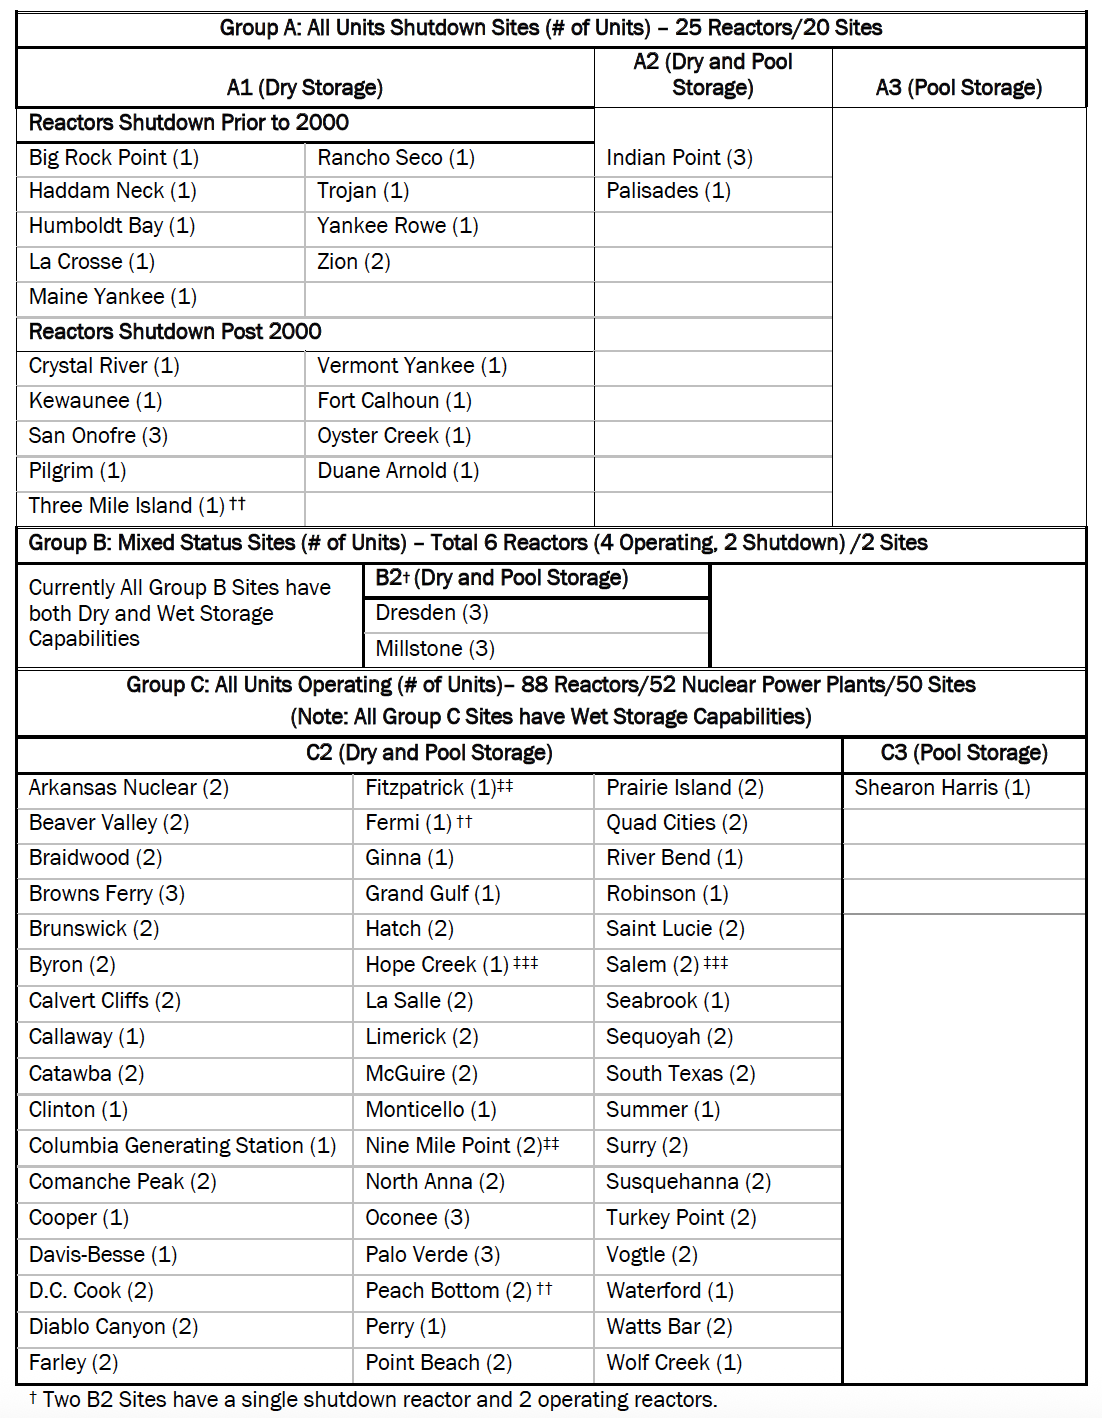
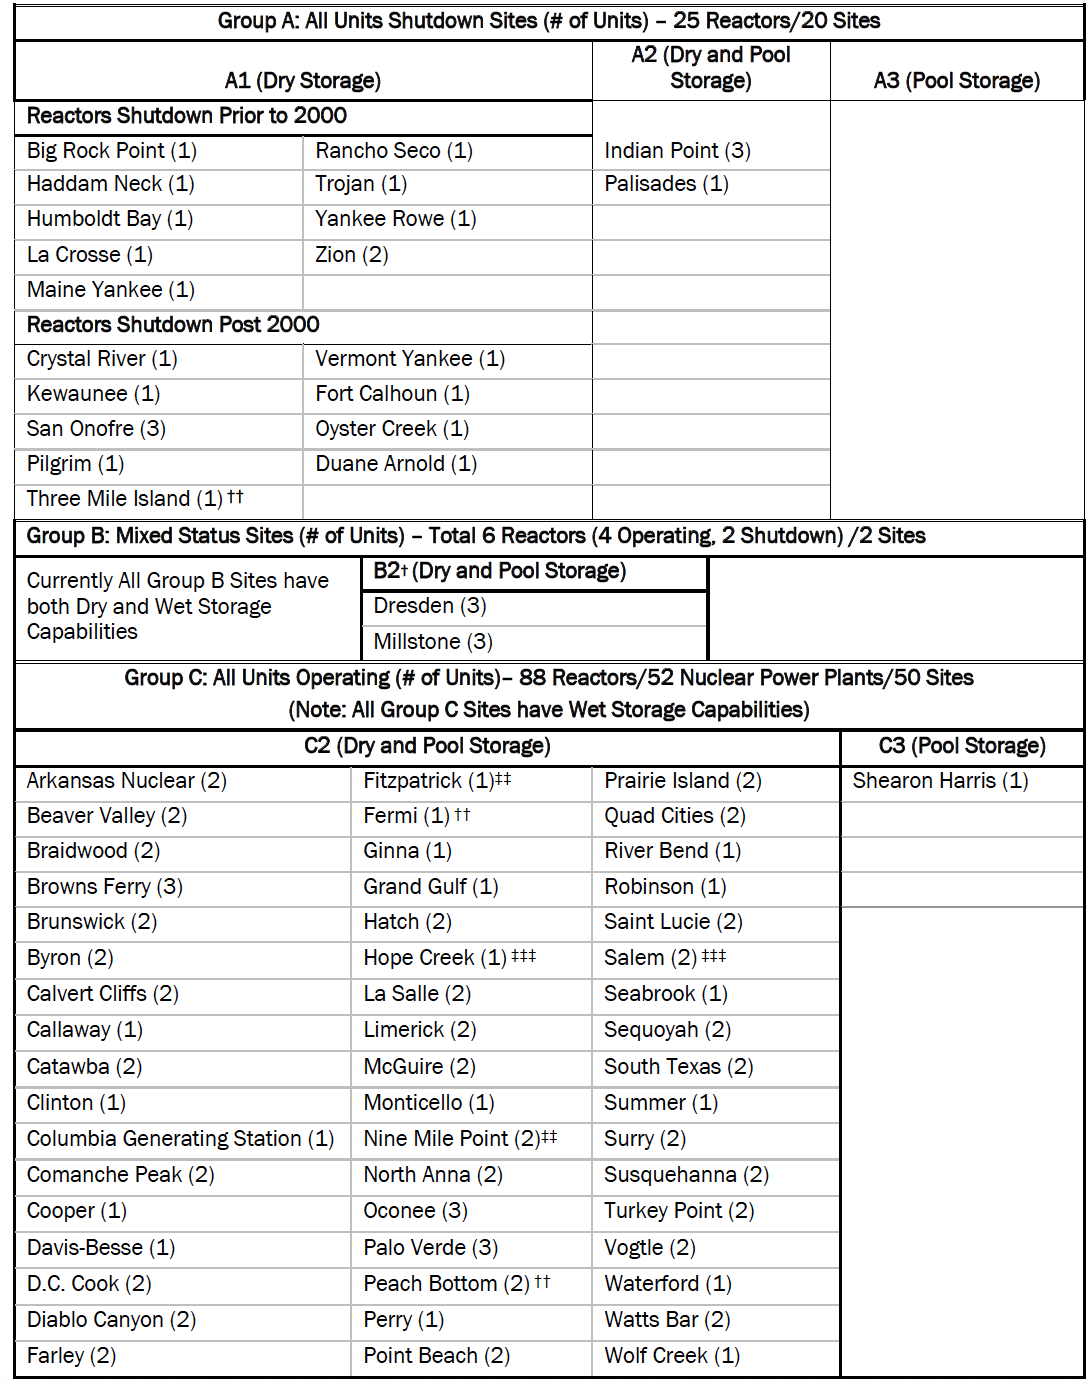
adding table notes

Changed region(s): [[0.0, 0.0, 0.9991, 1.0]]

diff --git a/main.tex b/main.tex
@@ -10,23 +10,40 @@
 
     \begin{figure}[H]
         \begin{center}
-            \includegraphics[width=1.0\textwidth]{figures/US_map.png}
+            \includegraphics[width=\textwidth]{figures/US_map.png}
         \end{center}
         \caption{Sites Storing Spent Nuclear Fuel and Reprocessing Waste at the End of 2022}
         \label{fig1}
     \end{figure}
 
-    At the end of 2022, the U.S. inventory of SNF and primary reprocessing waste was distributed across more than 100 sites in 39 states.
+    
+    \FloatBarrier
+    \begin{table}[H]
+        \centering
+        \includegraphics[width=\textwidth]{figures/intro_table.png}
+        \caption{U.S. SNF and Reprocessing Waste Inventory Summary as of December 31, 2022.}
+        \label{tab1}
+        \vspace{0.3em}
+        \footnotesize
+        \textit{Table notes:}
+        \begin{itemize}
+            \item[\textsuperscript{a}] Values are rounded to the nearest metric ton of heavy metal (MTHM).
+            \item[\textsuperscript{b}] Commercial SNF includes permanently discharged PWR and BWR fuel through December 31, 2022, excluding fuel reprocessed at West Valley, removed from Three Mile Island Unit~2, or discharged from the Fort St.~Vrain reactor.
+            \item[\textsuperscript{c}] DOE SNF includes fuel from DOE research and production reactors, naval reactors, and the Fort St.~Vrain gas-cooled reactor.
+            \item[\textsuperscript{d}] Other sites include university research reactors, government research reactors, and commercial R\&D facilities.
+            \item[\textsuperscript{e}] Site counts exclude DOE-owned ISFSIs but include the Morris away-from-reactor pool; co-located plants are counted as single sites.
+            \item[\textsuperscript{f}] Excludes critical facilities and very-low-power AGN-201 university reactors that are not expected to generate discharged fuel.
+            \item[\textsuperscript{g}] Includes three DOE reprocessing waste sites and one commercial HLW storage site.
+            \item[\textsuperscript{h}] Includes only vitrified waste canisters produced through December 31, 2022.
+            \item[\textsuperscript{i}] Includes all West Valley vitrified HLW canisters, including melter-drain and end-of-process canisters.
+        \end{itemize}
+        \normalsize
+    \end{table}
+    
+    As summarized in Table~\ref{tab1}, at the end of 2022, the U.S. inventory of SNF and primary reprocessing waste was distributed across more than 100 sites in 39 states.
     These include 73 commercial nuclear power reactor and Independent Spent Fuel Storage Installation (ISFSI) sites, 6 DOE facilities with SNF or research reactors,
     and 28 research and development (R\&D) sites encompassing universities, government laboratories, and commercial research centers.
-    Four major locations manage high level waste (HLW) and vitrified reprocessing waste, including 3 DOE facilities and one commercial site at West Valley, NY.
-    \begin{table}[H]
-        \begin{center}
-            \includegraphics[width=1.0\textwidth]{figures/intro_table.png}
-        \end{center}
-        \caption{U.S. SNF and Reprocessing Waste Inventory Summary as of December 31, 2022}
-        \label{tab1}
-    \end{table}
+    Four major locations manage high level waste (HLW) and vitrified reprocessing waste, including 3 DOE facilities and one commercial site at West Valley, NY.\\
 
     Commercial SNF inventories include permanently discharged PWR and BWR assemblies reported through 2022. Quantities exclude reprocessed fuel from the West Valley and Fort St. Vrain reactors.
     DOE totals include SNF from research, naval, and production programs.
@@ -54,17 +71,7 @@
     A numeric suffix is used to indicate whether SNF storage at the site is entirely dry (1), a mixture of wet and dry storage (2),
     or entirely wet (3). For example, Yankee Rowe is classified as Group A1 because all SNF at the site is stored in dry casks,
     while Surry is classified as Group C2 because it contains both pool and dry storage systems. Diablo Canyon Units 1 and 2 are
-    currently classified under Group C but are expected to transition to shutdown status before 2030.
-
-
-
-    \begin{table}[H]
-        \begin{center}
-            \includegraphics[width=1.0\textwidth]{figures/sec2.1_table.png}
-        \end{center}
-        \caption{Spent Nuclear Fuel Inventory by Reactor Group/Subgroup (As of 12/31/2022)}
-        \label{tab2}
-    \end{table}
+    currently classified under Group C but are expected to transition to shutdown status before 2030.\\
 
     Table~\ref{tab2} summarizes the distribution of commercial SNF by reactor category, illustrating the growth of Group A sites as more
     reactors retire. This grouping framework underpins the spatial and temporal distribution of discharged fuel and the corresponding
@@ -83,8 +90,26 @@
     fuel pools, reflecting both aging reactor infrastructure and the expansion of dry storage systems across the fleet.
 
     \begin{table}[H]
+    \centering
+    \includegraphics[width=\textwidth]{figures/sec2.1_table.png}
+    \caption{Spent Nuclear Fuel Inventory by Reactor Group/Subgroup (As of December 31, 2022)}
+    \label{tab2}
+    \vspace{0.3em}
+    \footnotesize
+    \textit{Table notes:}
+    \begin{itemize}
+        \item[\textsuperscript{\textdagger}] Two B2 sites include one shutdown reactor and two operating reactors.
+        \item[\textsuperscript{\textdagger\textdagger}] Excludes prototype, experimental, and disabled reactors (Fermi-1, Peach Bottom-1, and Three Mile Island Unit~2).
+        \item[\textsuperscript{\textdaggerdbl\textdaggerdbl}] Nine Mile Point and James A.~FitzPatrick are treated as a single site due to proximity and shared site boundaries.
+        \item[\textsuperscript{\textdaggerdbl\textdaggerdbl\textdaggerdbl}] Hope Creek and Salem are treated as a single site due to proximity and a shared ISFSI.
+    \end{itemize}
+    \normalsize
+    \end{table}
+
+
+    \begin{table}[H]
         \begin{center}
-            \includegraphics[width=1.0\textwidth]{figures/sec2.2_tab.png}
+            \includegraphics[width=\textwidth]{figures/sec2.2_tab.png}
         \end{center}
         \caption{Current Inventory at NPR sites by Storage Method as of December 2022}
         \label{tab3}
@@ -96,7 +121,7 @@
 
     \begin{figure}[H]
         \begin{center}
-            \includegraphics[width=1.0\textwidth]{figures/fig2.1.png}
+            \includegraphics[width=\textwidth]{figures/fig2.1.png}
         \end{center}
         \caption{Nuclear Power Reactor and ISFSI Sites (non-DOE) Currently Storing SNF}
         \label{fig2}
@@ -106,54 +131,41 @@
 
     \begin{figure}[H]
         \begin{center}
-            \includegraphics[width=1.0\textwidth]{figures/fig2.11.png}
+            \includegraphics[width=\textwidth]{figures/fig2.11.png}
         \end{center}
         \caption{Dry SNF Storage Casks Loaded at Nuclear Power Reactor Sites}
         \label{fig3}
     \end{figure}
 
-    Figure~\ref{fig3} illustrates the cumulative number of dry storage casks loaded across the commercial reactor fleet.
-    The increasing trend reflects both ongoing reactor operations and the migration of older assemblies from pools to dry storage.
+    The cumulative number of dry storage casks loaded across the commercial reactor fleet is illustrated in Figure~\ref{fig3},
+    the increasing trend reflects both ongoing reactor operations and the migration of older assemblies from pools to dry storage.
     The widespread use of dry casks underscores the importance of long-term interim storage in national waste management planning.\\
 
     GC-859 data also provide insights into fuel characteristics at discharge. Over time, average burnup has increased from
     early values below 20~GWd/MT in the 1970s to approximately 50 GWd/MT today. Correspondingly, initial enrichment has
     risen from about 2\% U-235 in early fuel designs to nearly 4.5\% in modern PWR and BWR assemblies. These changes reflect
     improvements in core design, regulatory allowances, and utility strategies aimed at extending fuel cycle lengths and
-    improving economic performance.
+    improving economic performance.\\
 
-    \begin{figure}[H]
-        \begin{center}
-            \includegraphics[width=1.0\textwidth]{figures/assemblies.png}
-        \end{center}
-        \caption{Burn-up (GWd/MTHM) \& Initial Enrichment (\% U-235) by Number of Assemblies of SNF Through December 2022}
-        \label{fig4}
-    \end{figure}
-
-    Figure~\ref{fig4} presents the distribution of burnup and enrichment for discharged assemblies, demonstrating a clear shift toward
+    The distribution of burnup and enrichment for discharged assemblies is represented in Figure~\ref{fig4}, demonstrating a clear shift toward
     higher burnup fuel across the fleet. This trend influences isotopic composition at discharge, particularly increasing
-    plutonium and minor actinide production.
-
-    \begin{figure}[H]
-        \begin{center}
-            \includegraphics[width=1.0\textwidth]{figures/burnup_enrichment.png}
-        \end{center}
-        \caption{Average Annual Burn up (GWd/MT) and Enrichment (U-235\%)}
-        \label{fig5}
-    \end{figure}
+    plutonium and minor actinide production.\\
 
     Figure~\ref{fig5} shows the annual average enrichment and burnup of U.S. reactor discharges from
     1968 to 2022. The steady upward trend in both parameters reflects technical and regulatory evolution in fuel management,
     including the adoption of higher enriched fuel and increased cycle lengths.\\
 
-    Representative burnup cases, drawn from the UFDC Inventory Report, provide insight into decay heat behavior.
-    These cases include PWR fuel discharged at 40 and 60~GWd/MT and BWR fuel discharged at 30 and 50~GWd/MT, typical
-    values bounding the burnup range of modern LWR fuel. These representative isotopic compositions are commonly used in fuel
-    cycle modeling tools such as Cyclus, ORIGEN, and UNF-ST\&DARDS.
+    \begin{figure}[H]
+        \begin{center}
+            \includegraphics[width=\textwidth]{figures/assemblies.png}
+        \end{center}
+        \caption{Burn-up (GWd/MTHM) \& Initial Enrichment (\% U-235) by Number of Assemblies of SNF Through December 2022}
+        \label{fig4}
+    \end{figure}
 
     \begin{table}[H]
         \begin{center}
-            \includegraphics[width=1.0\textwidth]{figures/pwr_table.png}
+            \includegraphics[width=\textwidth]{figures/pwr_table.png}
         \end{center}
         \caption{PWR 60 GWd/MT Spent Nuclear Fuel Decay Heat}
         \label{tab4}
@@ -161,11 +173,25 @@
 
     \begin{figure}[H]
         \begin{center}
-            \includegraphics[width=1.0\textwidth]{figures/pwr_plot.png}
+            \includegraphics[width=\textwidth]{figures/burnup_enrichment.png}
+        \end{center}
+        \caption{Average Annual Burn up (GWd/MT) and Enrichment (U-235\%)}
+        \label{fig5}
+    \end{figure}
+
+
+    \begin{figure}[H]
+        \begin{center}
+            \includegraphics[width=\textwidth]{figures/pwr_plot.png}
         \end{center}
         \caption{PWR 60 GWd/MT Spent Nuclear Fuel Decay Heat}
         \label{fig6}
     \end{figure}
+
+    Representative burnup cases, drawn from the UFDC Inventory Report, provide insight into decay heat behavior.
+    These cases include PWR fuel discharged at 40 and 60~GWd/MT and BWR fuel discharged at 30 and 50~GWd/MT, typical
+    values bounding the burnup range of modern LWR fuel. These representative isotopic compositions are commonly used in fuel
+    cycle modeling tools such as Cyclus, ORIGEN, and UNF-ST\&DARDS.\\
 
     As seen in Table~\ref{tab4} and Figure~\ref{fig6} the decay heat profile for PWR fuel discharged at 60~GWd/MT. At early cooling times, decay heat is
     dominated by fission products such as Cs-137 and Sr-90. At longer cooling times, actinides, particularly Pu-238, Pu-241,
@@ -174,24 +200,24 @@
 
     \begin{table}[H]
         \begin{center}
-            \includegraphics[width=1.0\textwidth]{figures/bwr_table.png}
+            \includegraphics[width=\textwidth]{figures/bwr_table.png}
         \end{center}
         \caption{BWR 50 GWd/MT Spent Nuclear Fuel Decay Heat}
         \label{tab5}
     \end{table}
 
-    \begin{figure}[H]
-        \begin{center}
-            \includegraphics[width=1.0\textwidth]{figures/bwr_plot.png}
-        \end{center}
-        \caption{BWR 50 GWd/MT Spent Nuclear Fuel Decay Heat}
-        \label{fig7}
-    \end{figure}
-
     Table~\ref{tab5} and Figure~\ref{fig7} present corresponding decay heat characteristics for BWR fuel discharged at 50~GWd/MT. Similar to the PWR case,
     short term heat generation is controlled by fission products, while long term heat output is driven by actinides.
     These representative datasets are essential for evaluating engineered storage systems and for bounding performance
     assessments in fuel cycle simulations.\\
+
+    \begin{figure}[H]
+        \begin{center}
+            \includegraphics[width=\textwidth]{figures/bwr_plot.png}
+        \end{center}
+        \caption{BWR 50 GWd/MT Spent Nuclear Fuel Decay Heat}
+        \label{fig7}
+    \end{figure}
 
     While commercial reactors generate the vast majority of SNF in the United States, the DOE manages a separate and highly diverse
     inventory originating from research, defense, and demonstration reactors, which is discussed in the following section.
@@ -237,10 +263,15 @@
 
     \begin{table}[H]
         \begin{center}
-            \includegraphics[width=0.9\textwidth]{figures/doe_projection.png}
+            \includegraphics[width=\textwidth]{figures/doe_projection.png}
         \end{center}
         \caption{Projected decay heat distribution of DOE spent nuclear fuel canisters for the year 2030}
         \label{tab6}
+        \vspace{0.3em}
+        \footnotesize
+        \textit{Table note:}
+        \textsuperscript{11} Canister counts are derived from an SFD loading algorithm and have been rounded up to whole canisters. They provide a relative comparison across decay-heat ranges and do not represent actual as-loaded canisters. Totals may therefore differ from the SFD database, and cumulative percentages are based on the algorithm results.
+        \normalsize
     \end{table}
 
     In 1995, DOE made the strategic decision to consolidate SNF storage at three primary sites: the Hanford Site in Washington,
@@ -251,29 +282,40 @@
     established standard disposal canister designs intended to support eventual geologic disposal, no DOE SNF has yet been packaged
     into these standardized canisters.\\
 
-    DOE also manages approximately 173.6~MTHM of spent nuclear fuel that originated from commercial nuclear power reactors, but was transferred to DOE for research, testing, and fuel cycle demonstration activities. This inventory includes core debris from Three Mile Island Unit~2, high-temperature gas-cooled reactor fuel from the Fort St.~Vrain reactor, and various LWR assemblies used in post-irradiation examination, rod consolidation experiments, and vitrification studies. Much of this fuel is no longer in intact assembly form and therefore requires packaging in specialized canisters prior to storage and disposal. Table~\ref{tab7} summarizes the decay heat characteristics of the 950 canisters containing non-standard and research-origin spent nuclear fuel managed by DOE.
-
-
-    \begin{table}[H]
-        \begin{center}
-            \includegraphics[width=0.9\textwidth]{figures/doe.png}
-        \end{center}
-        \caption{Decay heat characteristics of canisters containing SNF of commercial (NPR) origin managed by DOE}
-        \label{tab7}
-    \end{table}
+    DOE also manages approximately 173.6~MTHM of spent nuclear fuel that originated from commercial nuclear power reactors,
+    but was transferred to DOE for research, testing, and fuel cycle demonstration activities. This inventory includes core debris
+    from Three Mile Island Unit~2, high-temperature gas-cooled reactor fuel from the Fort St.~Vrain reactor, and various LWR assemblies
+    used in post-irradiation examination, rod consolidation experiments, and vitrification studies. Much of this fuel is no longer in intact
+    assembly form and therefore requires packaging in specialized canisters prior to storage and disposal. Table~\ref{tab7} summarizes the
+    decay heat characteristics of the 950 canisters containing non-standard and research-origin spent nuclear fuel managed by DOE.\\
 
     In addition to research and commercial origin fuel, DOE manages naval reactor SNF through the Naval Nuclear Propulsion
     Program (NNPP). This fuel is discharged from nuclear powered submarines, aircraft carriers, land based prototype reactors,
     and moored training ships. Naval fuel is fabricated with highly enriched uranium, resulting in exceptionally low transuranic
     production compared to commercial LWR fuel. The current inventory is approximately 40~MTHM, with projections indicating less
-    than 65~MTHM by 2035. Naval SNF is stored in specially engineered canisters, either “naval short” or “naval long”
+    than 65~MTHM by 2035.
+
+    \begin{table}[H]
+        \begin{center}
+            \includegraphics[width=\textwidth]{figures/doe.png}
+        \end{center}
+        \caption{Decay heat characteristics of canisters containing SNF of commercial (NPR) origin managed by DOE}
+        \label{tab7}
+        \vspace{0.3em}
+        \footnotesize
+        \textit{Table note:}
+        \textsuperscript{12} Canister counts are derived from an SFD loading algorithm and rounded up to whole canisters. They provide a relative comparison across decay-heat ranges and do not represent actual as-loaded canisters. Totals may differ from the SFD database, and cumulative percentages are based on the algorithm results.
+        \normalsize
+    \end{table}
+
+    Naval SNF is stored in specially engineered canisters, either “naval short” or “naval long”
     variants, designed to meet repository heat, shielding, and criticality constraints. As of 2022, 201 naval SNF canisters have
     been loaded and are stored at INL. Although naval fuel is highly enriched, long term decay heat is generally modest due to low transuranic buildup,
     as shown in Table~\ref{tab8}, that provides the distribution of Naval SNF canisters based on nominal decay heat.
 
     \begin{table}[H]
         \begin{center}
-            \includegraphics[width=1.0\textwidth]{figures/naval.png}
+            \includegraphics[width=\textwidth]{figures/naval.png}
         \end{center}
         \caption{Decay heat characteristics of naval SNF canisters}
         \label{tab8}
@@ -306,15 +348,7 @@
 
     Table~\ref{tab9} provides a listing of the university reactors and the quantities of spent nuclear fuel at those locations.
     The quantities reported include the in-core amounts and SNF which has not reached the end of its useful life.
-    Although these facilities represent a wide geographic distribution, the total quantity of SNF remains very small compared to commercial or DOE sources.
-
-    \begin{table}[H]
-        \begin{center}
-            \includegraphics[width=1.0\textwidth]{figures/universities.png}
-        \end{center}
-        \caption{University research reactor sites and their associated SNF inventories}
-        \label{tab9}
-    \end{table}
+    Although these facilities represent a wide geographic distribution, the total quantity of SNF remains very small compared to commercial or DOE sources.\\
 
     In addition to university operated facilities, several research reactors are run by other government agencies.
     These include national defense, materials testing, and specialized experimental reactors that support federal research programs.
@@ -322,10 +356,20 @@
     incorporated into DOE’s consolidated inventory. Table~\ref{tab10} summarizes these government operated research reactors and the
     corresponding SNF quantities that have been transferred to DOE management.
 
+    \begin{table}[H]
+        \begin{center}
+            \includegraphics[width=\textwidth]{figures/universities.png}
+        \end{center}
+        \caption{University research reactor sites and their associated SNF inventories}
+        \label{tab9}
+    \end{table}
+
+    
+
 
     \begin{table}[H]
         \begin{center}
-            \includegraphics[width=1.0\textwidth]{figures/government.png}
+            \includegraphics[width=\textwidth]{figures/government.png}
         \end{center}
         \caption{Research reactors operated by other government agencies and the associated SNF transferred to DOE custody for long term management.}
         \label{tab10}
@@ -341,7 +385,7 @@
 
     \begin{table}[H]
         \begin{center}
-            \includegraphics[width=1.0\textwidth]{figures/commercial_research.png}
+            \includegraphics[width=\textwidth]{figures/commercial_research.png}
         \end{center}
         \caption{Commercial research and development centers with spent nuclear fuel inventories}
         \label{tab11}
@@ -421,7 +465,7 @@
 
     \begin{figure}[H]
         \begin{center}
-            \includegraphics[width=1.0\textwidth]{figures/Cyclus.png}
+            \includegraphics[width=\textwidth]{figures/Cyclus.png}
         \end{center}
         \caption{The Cyclus core offers APIs that simplify kernel interactions, allowing archetypes to be loaded modularity into the simulation.~\cite{huff_fundamental_2016}}
         \label{fig8}

diff --git a/UIUC-ARFC-2025-01.tex b/UIUC-ARFC-2025-01.tex
@@ -76,6 +76,7 @@
 
 % hyperref usually has to go last
 \usepackage[hidelinks]{hyperref}
+\usepackage{placeins}
 % but glossaries behaves best if after hyperref
 \usepackage[acronym,toc]{glossaries}
 \include{acros}
